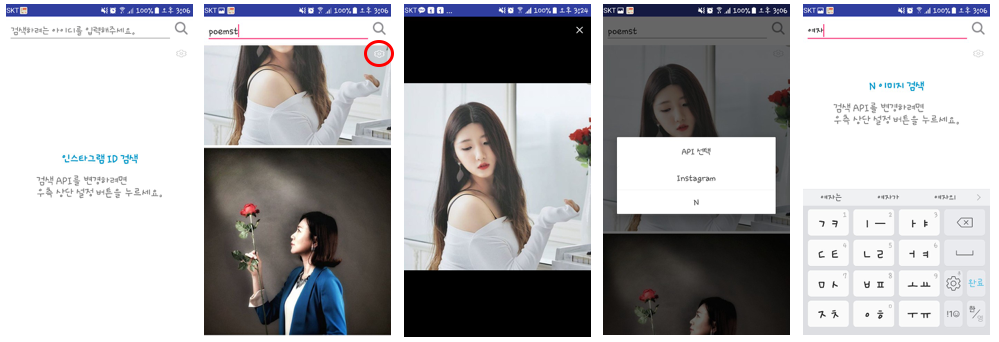
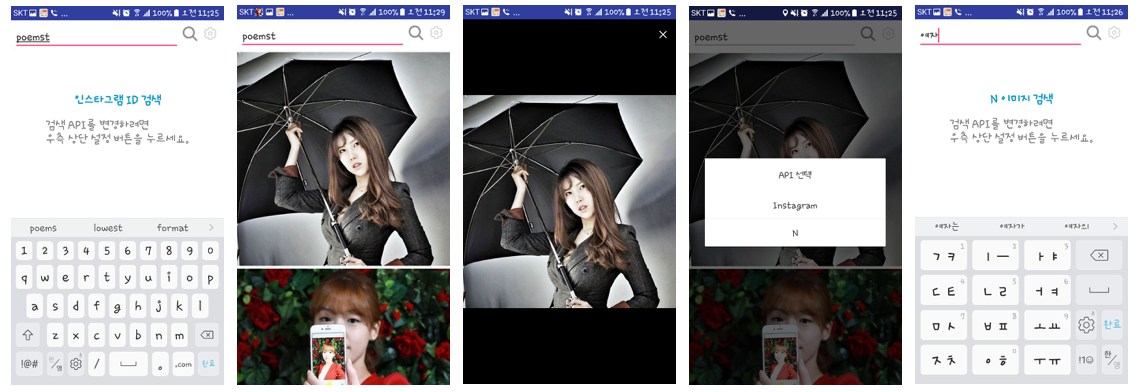
UX 및 readme 수정.

diff --git a/app/src/main/java/ma/sdop/imagelist/ui/MaImageFragment.java b/app/src/main/java/ma/sdop/imagelist/ui/MaImageFragment.java
@@ -46,7 +46,6 @@ import ma.sdop.imagelist.web.parameter.ParameterBaseData;
 
 public class MaImageFragment extends BaseFragment {
     private EditText ma_image_input_id;
-    private Button setting_button;
     private TextView setting_description_api;
     private View description_layout;
 
@@ -70,13 +69,12 @@ public class MaImageFragment extends BaseFragment {
         ma_image_input_id = (EditText) findViewById(R.id.ma_image_input_id);
         ma_image_input_id.setOnEditorActionListener(editorActionListener);
         RecyclerView ma_image_list = (RecyclerView) findViewById(R.id.ma_image_list);
-        setting_button = (Button) findViewById(R.id.setting_button);
         setting_description_api = (TextView) findViewById(R.id.setting_description_api);
 
         description_layout = findViewById(R.id.description_layout);
 
         findViewById(R.id.ma_image_search_button).setOnClickListener(onClickListener);
-        setting_button.setOnClickListener(onClickListener);
+        findViewById(R.id.setting_button).setOnClickListener(onClickListener);
         linearLayoutManager = new LinearLayoutManager(activity, LinearLayoutManager.VERTICAL, false);
         ma_image_list.setLayoutManager(linearLayoutManager);
         maImageAdapter = new MaImageAdapter(listItems);
@@ -146,7 +144,6 @@ public class MaImageFragment extends BaseFragment {
             for (ImageData imageData : result.getImageData()) listItems.add(imageData);
 
             reload = false;
-            setting_button.setBackgroundResource(R.drawable.setting);
             maImageAdapter.notifyDataSetChanged();
         }
     };

diff --git a/README.md b/README.md
@@ -27,8 +27,8 @@ Open API(instagram 및 N사)를 통해 이미지 로딩 및 상세 화면을 보
 
 #### 테스트 방법
 ![Alt text](/screenShot.png)
-+ 앱을 실행하면 1번 화면이 나옵니다.디폴트 검색 API는 인스타그램입니다.
-+ 2번 그림처럼 원하는 사용자의 아이디 입력 후 우상단의 돋보기 버튼을 누르면 결과가 나옵니다.
-+ 검색 결과 중 보고 싶은 사진을 누르면 3번 화면으로 이동합니다.
-+ 2번 그림 붉은 원 표시된 설정 아이콘을 누르면 4번 그림처럼 API 변경이 가능합니다.
-+ N사 이미지 검색을 하려면 5번 화면에서 키워드를 누른 후 돋보기 버튼을 누릅니다. 이후 과정은 인스타그램 API 결과와 동일합니다.
++ 앱을 실행하면 첫번째 화면이 나옵니다.디폴트 검색 API는 인스타그램입니다.
++ 두번째 그림처럼 원하는 사용자의 아이디 입력 후 오른쪽 돋보기 버튼을 누르면 결과가 나옵니다.
++ 검색 결과 중 보고 싶은 사진을 누르면 세번째 화면으로 이동합니다.
++ 두번째 그림의 최우상단 ![Alt text](/screen_icon_setting) 버튼을 누르면 API 변경이 가능합니다.
++ N사 이미지 검색을 하려면 다섯뻔째 화면에서 키워드를 누른 후 돋보기 버튼을 누릅니다. 이후 과정은 인스타그램 API 결과와 동일합니다.
